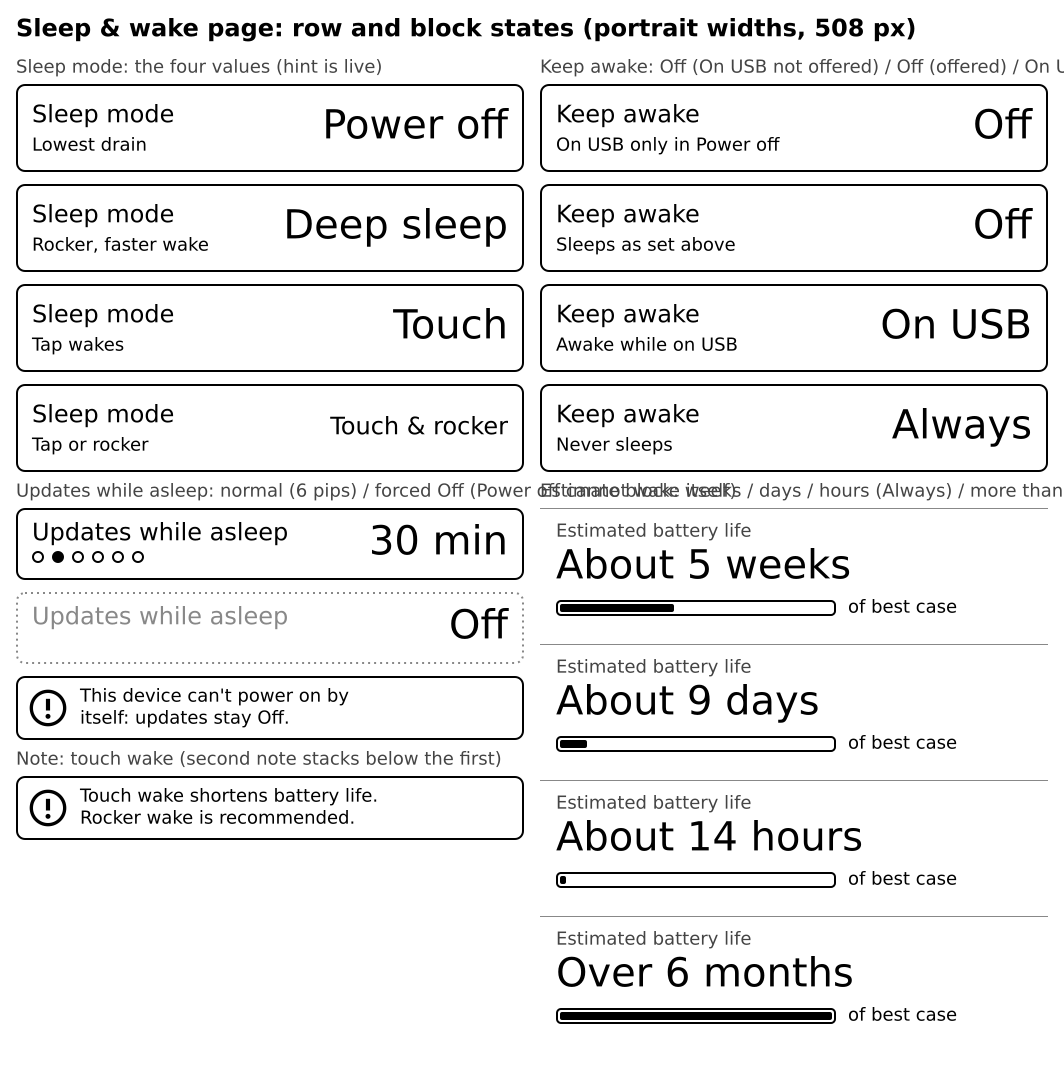
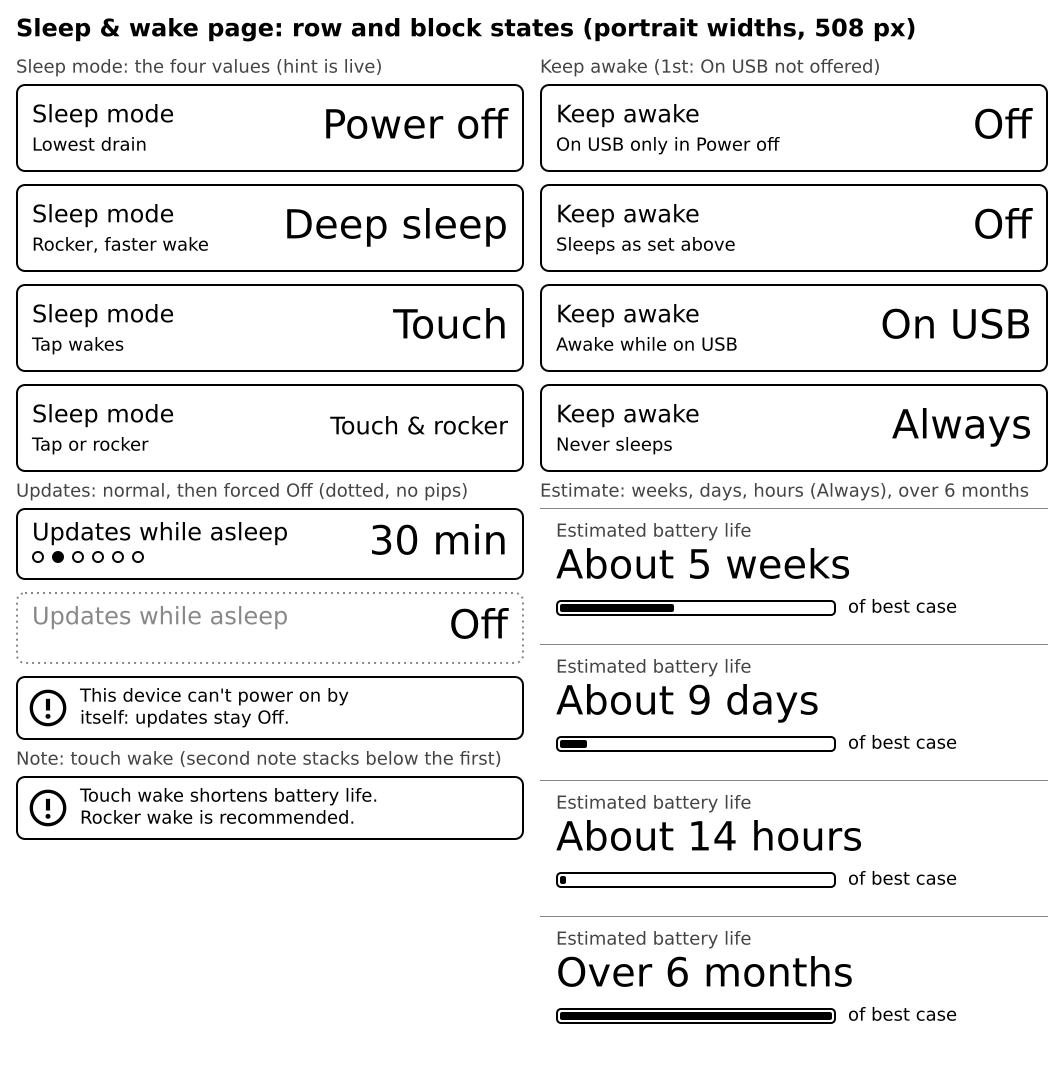
task 085: UI spec for power settings, estimate and state indicators

diff --git a/docs/ui/settings.md b/docs/ui/settings.md
@@ -41,7 +41,7 @@ No Home Assistant entity or service is used except the shared state fetch.
    - Orientation: applied on leaving: rotation is set, the layout recomputed
      (active tab kept, sub-page clamped), then **one full refresh** of the tab
      screen (STYLE.md section 10; Settings exit is always a full refresh).
-   - Wake mode, refresh interval: used the next time the device prepares to
+   - Sleep mode, updates while asleep, keep awake: used the next time the device prepares to
      sleep (power module reads the saved settings). The sleep badge (one for all wake modes)
      (STYLE.md 5.5) is the same for every wake mode.
    - Idle timeout: used from the moment Settings is left.
@@ -59,8 +59,8 @@ No Home Assistant entity or service is used except the shared state fetch.
    draws the tab screen with a full refresh) and then sleeps, so the frozen
    image is never a stale Settings page; the sleep badge is then drawn on
    the tab screen. OPEN-S1.
-6. **Touch Wake note.** While wake mode is Touch or Touch & Button (in the
-   buffer), the note slot shows an alert box `Touch wake shortens battery life. / Button wake is
+6. **Touch Wake note** (superseded by 8.2 notes, revision 10). While Sleep mode is Touch or Touch & rocker (in the
+   buffer), a note slot shows an alert box `Touch wake shortens battery life. / Button wake is
    recommended.` No numbers are quoted (power is still an estimate in
    ARCHITECTURE.md). The wake row always shows its pips (no warn icon; task 039).
    With Button the note slot is empty.
@@ -76,7 +76,7 @@ Settings is a two-level system: the **overview** (main page) lists four **catego
 | Category | Settings (edit buffer fields) |
 |----------|-------------------------------|
 | Display | Orientation |
-| Sleep & wake | Wake mode, Refresh every, Idle timeout, Stay awake on USB (9.1) |
+| Sleep & wake | Sleep mode, Updates while asleep, Keep awake, Idle timeout, Learn battery limits; battery estimate (8.2, revision 10, task 085) |
 | Network | Wi-Fi (`Auto` / profile names from secrets.yaml), HA connection (`Auto` / `Internal` / `External`) |
 | Tools | Demo mode, Debug log |
 
@@ -97,7 +97,7 @@ Shared geometry (unchanged from revision 6): margins 16, gaps 12, header 54 (por
 | Refresh now | (16, 880, 248, 64) | 912 | 3.4 |
 | Back | (276, 880, 248, 64) | 912 | 3.4 |
 
-Category row (row-relative, 508 x 96): label F24 INK left at x = 16, cy = 34; **one-line summary** F18 INK left at x = 16, cy = 66; chevron_right icon (M, 40 x 40) at (W - 52, 28), cy = 48. Summaries (from the edit buffer, so they follow unsaved changes; fit rule F18 then `...`): Display `Portrait` / `Landscape`; Sleep & wake `<wake>, <refresh>, <idle>` e.g. `Touch, 60 min, 20 s` (wake `Button` / `Touch` / `Touch & Button` shortened to `Both` only if it does not fit); Network `Wi-Fi <value>, HA <value>` e.g. `Wi-Fi Auto, HA Auto` or `Wi-Fi Hotspot, HA Internal`; Tools `Demo Off, Log Off`. Vertical sums: header 56 +12 = 68; 4 x 96 + 3 x 12 = 420 -> 488; +16 = 504; info 304 -> 808; footer 880 (72 px of free space between).
+Category row (row-relative, 508 x 96): label F24 INK left at x = 16, cy = 34; **one-line summary** F18 INK left at x = 16, cy = 66; chevron_right icon (M, 40 x 40) at (W - 52, 28), cy = 48. Summaries (from the edit buffer, so they follow unsaved changes; fit rule F18 then `...`): Display `Portrait` / `Landscape`; Sleep & wake `<Sleep mode>, updates <X>` plus `, USB awake` / `, always awake` when Keep awake is On USB / Always, e.g. `Power off, updates 3 h`, `Deep sleep, updates off`, `Touch & rocker, updates 30 min, always awake` (X = `off` / `30 min` / `1 h` / `3 h` / `6 h` / `12 h`; fit rule: drop the word `updates `, then `...`; revision 10, the idle timeout is no longer in the summary); Network `Wi-Fi <value>, HA <value>` e.g. `Wi-Fi Auto, HA Auto` or `Wi-Fi Hotspot, HA Internal`; Tools `Demo Off, Log Off`. Vertical sums: header 56 +12 = 68; 4 x 96 + 3 x 12 = 420 -> 488; +16 = 504; info 304 -> 808; footer 880 (72 px of free space between).
 
 Info rows (3.3 table) change only in wording: HA row `internal, ok 14:05` / `external, ok 14:05` (the link in use; was local / remote); Wi-Fi row shows the SSID of the connected profile.
 
@@ -198,10 +198,38 @@ All pages: header (title = category name, chip when the buffer is dirty), no tab
 ### 8.1 Display (`settings-display-*.svg`)
 Portrait: Orientation pip row (16, 68, 508, 72). Below it a static caption F18 DIM at (16, 152) cy 168: `Applied when Settings is left.` Landscape: row (16, 64, 456, 68), caption at (16, 132) cy 148. Mockup shows the changed value (unsaved), focus on the row.
 
-### 8.2 Sleep & wake (`settings-sleep-*.svg`)
-Pip rows Wake mode (68), Refresh every (152), Idle timeout (236), then the touch-wake note slot (16, 320, 508, 64) (empty with Button). Landscape: rows at y = 64, 144, 224 (h 68), note (16, 304, 456, 64). Mockups: Wake Touch (note visible), focus on Refresh every.
+### 8.2 Sleep & wake (`settings-sleep-*.svg`, revision 10, task 085)
+Replaces Wake mode, Refresh every and Stay awake on USB (old 9.1). Mockups: `settings-sleep-portrait.svg` (Power off, updates 3 h, Keep awake Off, focus on Keep awake), `settings-sleep-landscape.svg` (Touch & rocker, 30 min, On USB not offered, touch note, focus on Updates), `settings-sleep-states.svg` (every value of the mode and Keep awake rows, forced-Off row, notes, four estimate looks). Row types as 3.1; values F40 INK right edge W - 16; labels F24 INK at x = 16 (row-relative); ids w-N as listed.
 
-**Learn battery limits (task 079, revision 9).** Fifth row, hint-row type like 9.1 (88 high, `Off` / `On` F40 INK, label `Learn battery limits` F24, hint `Raise low limit after brownouts` F18 INK, label cy +32, hint cy +62, value cy +44 from row top). Portrait (16, 420, 508, 88) (12 below Stay awake, ends 508); touch-wake note moves to (16, 520, 508, 64). Landscape (488, 164, 456, 88) (right column, 12 below Stay awake); note unchanged (16, 304, 456, 64). Ids: w-5 = this row, w-6 = note, w-7 = Back. Rocker focus order: Wake mode, Refresh every, Idle timeout, Stay awake on USB, Learn battery limits, Back. PUSH or tap toggles in the shared buffer (partial of the row, `unsaved` chip if dirty flipped). Mockups show it On.
+| # | Row (id) | Type | Portrait rect | Landscape rect |
+|---|----------|------|---------------|----------------|
+| 1 | Sleep mode (w-1) | hint, 88 | (16, 68, 508, 88) | (16, 64, 456, 88) |
+| 2 | Updates while asleep (w-2) | pip, 72 / 68 | (16, 168, 508, 72) | (16, 164, 456, 68) |
+| 3 | Keep awake (w-3) | hint, 88 | (16, 252, 508, 88) | (16, 244, 456, 88) |
+| 4 | Idle timeout (w-4) | pip, 72 / 68 | (16, 352, 508, 72) | (16, 344, 456, 68) |
+| 5 | Learn battery limits (w-5) | hint, 88 (as before: hint `Raise low limit after brownouts`, `Off` / `On`) | (16, 436, 508, 88) | (488, 64, 456, 88) |
+| - | Note area (w-6, w-7 when shown) | notes 64 high, stacked, pitch 76, in this order | from (16, 536, 508, 64) | from (488, 164, 456, 64) |
+| - | Estimate block (next w id) | 124 high, not interactive | (16, 744, 508, 124) | (488, 328, 456, 124) |
+| - | Back (last w id) | 3.4 | (276, 880, 248, 64) | (722, 464, 222, 64) |
+
+Vertical check (portrait): 68 + 88 + 12 + 72 + 12 + 88 + 12 + 72 + 12 + 88 = 524; notes 536..676 (two at most); estimate 744..868; Back 880 (12 px gap). Landscape: left column ends 412; right column notes end 304 at most; estimate 328..452; Back 464.
+
+**Row 1, Sleep mode** (hint row; value F40, `Touch & rocker` F24 because F40 does not fit; hint F18 INK, live, label cy +32, hint cy +62, value cy +44). Cycle order = cost order, wraps: `Power off` (hint `Lowest drain`) -> `Deep sleep` (`Rocker, faster wake`) -> `Touch` (`Tap wakes`) -> `Touch & rocker` (`Tap or rocker`). Default `Power off` once task 084 works. Rocker always wakes in the first two and in `Touch & rocker`; `Touch` wakes by tap only. Migration of the old wake mode is firmware (Button -> Deep sleep unless 084 is usable, Touch, Touch & Button).
+
+**Row 2, Updates while asleep** (pip row, 6 pips): `Off` / `30 min` / `1 h` / `3 h` / `6 h` / `12 h` (cycle, wraps; 0 = Off). **Forced Off**: when Sleep mode is `Power off` and 084 cannot make the RTC power-on work, the row takes the unavailable look (STYLE.md section 8: 2 px dotted OFF border, label in OFF grey, no pips, value `Off` INK), ignores tap and PUSH, is skipped by the rocker focus, and the note `This device can't power on by` / `itself: updates stay Off.` shows (first slot). The stored value is kept and returns when the mode changes.
+
+**Row 3, Keep awake** (hint row, value F40): `Off` / `On USB` / `Always`. Live hint: Off `Sleeps as set above`; On USB `Awake while on USB`; Always `Never sleeps`. **On USB not offered** (Deep sleep, Touch, Touch & rocker unless the CH9102 RX probe of task 081 proves reliable; always offered in Power off via the power-off fallback): the cycle is `Off` -> `Always` -> `Off`, and while the value is Off the hint reads `On USB only in Power off` (no extra row, no note). If the user changes Sleep mode to one that does not offer it while the value is `On USB`, the buffer value becomes `Off` (the chip shows if that makes the buffer differ). Takes effect when Settings is left.
+
+**Row 4, Idle timeout**: unchanged (4 pips, `10 s` / `20 s` / `30 s` / `60 s`). Unused while Keep awake is Always (the row stays editable, no special look).
+
+**Note area.** Alert-icon notes as 3.2 (icon M at (12, 12), lines F18 cy 21 / 43, text x = 64), stacked from the top of the area, at most two, in priority order: (1) forced Off (text above); (2) Sleep mode is `Touch` or `Touch & rocker`: `Touch wake shortens battery life.` / `Rocker wake is recommended.` (replaces the old rule 6 text; no numbers). A note appearing or clearing redraws the whole note area.
+
+**Estimate block** (not a button; no focus stop). Top hairline (0, 0, 456 or 508, 1) OFF; caption `Estimated battery life` F18 DIM at x = 16, cy = 24; value line F40 INK at x = 16, cy = 60; gauge outline (17, 93, 278, 14) radius 4, 2 px INK, fill bar (20, 96, w, 8) INK with w = max(6, round(272 x f)); text `of best case` F18 INK at x = 308, cy = 100. Offsets are block-relative. Value text (INK, rounded, `About` always): under 48 h `About N hours`; under 21 days `About N days` (N >= 10 rounded to 5); then `About N weeks` up to 26 weeks; above that `Over 6 months`. f = estimate / best case, where best case = the model's value for Power off, updates Off, Keep awake Off with the same assumed use (so f = 1 only at that setting); estimate is from lib/power, labelled `Estimated` until measured. Keep awake Always = hours.
+Redraw: the caption and hairline are static (drawn when the page opens); the live part is the value line and gauge, region (0, 36, W, 88) block-relative, INK/PAPER only (`epd_fastest`); text stays INK so it is a fast partial. A tap changes the row (one partial) and the estimate region together as one update; the estimate is recomputed from the shared edit buffer on every change.
+
+**Interactions.** Row tap or PUSH cycles the value in the buffer (rows 1..3, 4, 5); redraw = the row, the estimate region, the note area if its condition flipped, the `unsaved` chip if the dirty flag flipped (partial; INK-only regions `epd_fastest`; the forced-row dotted OFF border makes its redraw `epd_quality`). Rocker focus order: Sleep mode, Updates while asleep (skipped when forced), Keep awake, Idle timeout, Learn battery limits, Back. LONG_PUSH = back to the overview. Focus ring as section 5. Settings are saved on leaving (rule 2) and used the next time the device sleeps; the status-bar indicator (STYLE.md 5.6) shows the result.
+
+**States.** Loading: none. HA offline / entity unavailable: not relevant (device-local settings). Estimate unavailable (model has no constants yet): value line `Estimate n/a`, gauge empty. Demo mode: unchanged.
 
 ### 8.3 Network (`settings-network-*.svg`)
 Hint rows, 88 high. Portrait: Wi-Fi (16, 68, 508, 88), HA connection (16, 168, 508, 88), note slot (16, 268, 508, 64). Landscape: Wi-Fi (16, 64, 456, 88), HA connection (488, 64, 456, 88), note (16, 164, 456, 64) (under Wi-Fi). Hints are live, read from the network state, never edited:
@@ -230,17 +258,8 @@ Refresh: entering and leaving a page = GC16 full; row toggles = one partial of t
 
 Mockups: `settings-portrait.svg` / `settings-landscape.svg` (overview, Sleep now row), `settings-sleep-portrait.svg` / `settings-sleep-landscape.svg` (toggle row, shown On, unsaved). Placement decision: the toggle is a sleep setting, so it lives on the **Sleep & wake** page (not the overview, which has no room for two more rows); only the action **Sleep now** is on the overview.
 
-### 9.1 Stay awake on USB (Sleep & wake page)
-Data: `settings::Settings.stay_awake_usb` (bool, default Off, saved on leaving like all settings; task 081 persists it in NVS). Hint row type (3.1), 88 high, `Off` / `On` cycle, value F40 INK.
-
-| Element | Portrait | Landscape | Font |
-|---------|----------|-----------|------|
-| Row | (16, 320, 508, 88), border 2 INK, radius 8, PAPER | (488, 64, 456, 88) (right column, top) | |
-| Label `Stay awake on USB` | x 32, cy 352 | x 504, cy 96 | F24 INK |
-| Hint `Never sleeps while on USB power` (static) | x 32, cy 382 | x 504, cy 126 | F18 INK |
-| Value `Off` / `On` | right edge x 508, cy 364 | right edge x 928, cy 108 | F40 INK |
-
-Touch-wake note slot moves below it in portrait: (16, 420, 508, 64) (landscape unchanged, (16, 304, 456, 64)). Ids: w-4 = this row, w-5 = note, w-6 = Back. Rocker focus order: Wake mode, Refresh every, Idle timeout, Stay awake on USB, Back. PUSH or tap toggles in the shared buffer; redraw = the row only (one partial, `epd_fastest`), plus the `unsaved` chip if the dirty flag flipped. Takes effect when Settings is left (the idle decision reads the saved value). Off = idle sleep exactly as today. On with no USB power: nothing changes visibly; battery sleep is unchanged. No separate "USB detected" indicator (OPEN-S7).
+### 9.1 Stay awake on USB (superseded)
+Replaced by Keep awake (`Off` / `On USB` / `Always`) in 8.2 (revision 10, task 085). The row layout, the `Never sleeps while on USB power` hint and the old focus order no longer apply. The OPEN-S7 hint question is answered by the status-bar indicator (STYLE.md 5.6).
 
 ### 9.2 Sleep now (overview)
 | Element | Portrait | Landscape | Font / grey |
@@ -260,3 +279,8 @@ No on-screen countdown (partial refresh while holding would ghost and cost batte
 ### 9.4 OPEN
 - OPEN-S7: no USB-power indicator on the toggle row; Battery info row already shows the bolt icon when charging. Add a hint `USB power detected` only if task 081 finds a reliable signal (architect).
 - OPEN-S8: toggle placed on the Sleep & wake page, not on the overview (coordinator's wording suggested the overview).
+
+### 10. OPEN (revision 10, task 085)
+- OPEN-S9: the estimate wording, rounding and `of best case` gauge are proposals (best case = Power off, updates Off); architect to confirm the model can give a best case.
+- OPEN-S10: On USB falling back to Off when the mode no longer offers it (8.2 row 3) is a proposal; alternative is to keep the stored value and treat it as Off.
+- OPEN-S11: forced-Off Updates (Power off without a working RTC power-on) shows as a dotted row plus note; confirm 084 can report "RTC power-on unsupported" at settings time.

diff --git a/docs/ui/STYLE.md b/docs/ui/STYLE.md
@@ -155,7 +155,7 @@ Cell pitch = cell size + 12.
 | Status bar / top bar | status bar (0, 0, 540, 56) | top bar (0, 0, 960, 64), holds status AND tabs |
 | Refresh hit area | (0, 0, 288, 56) | (16, 4, 144, 56) |
 | Settings hit area (battery cluster) | (412, 0, 112, 56) | (832, 4, 112, 56) |
-| Sleep badge region | (298, 3, 100, 48) | (710, 8, 100, 48) |
+| Sleep indicator region (5.6) | (298, 3, 108, 48) | (706, 8, 108, 48) |
 | Tab bar (redraw region) | bottom: (0, 880, 540, 80) | strip inside the top bar: (172, 0, 648, 64) |
 | Content area | (16, 68, 508, 800) | (16, 72, 928, 452) |
 | Columns x rows | 2 x 7 | 5 x 4 |
@@ -262,7 +262,7 @@ every element: **cy = 27** (the 54 px above the rule).
 | Connection icon (S, 24x24) | (16, 15, 24, 24) | see 5.3 |
 | Refresh label text | x = 48, cy = 27, left, one line, max width 236 (to x = 284) | `updated 14:05` |
 | Refresh hit area | (0, 0, 288, 56) | invisible; 10 px from the sleep badge region |
-| Sleep badge region | (298, 3, 100, 48) | see 5.5 |
+| Sleep indicator region | (298, 3, 108, 48) | see 5.6 (replaces the 5.5 badge) |
 | Battery icon | origin (428, 17), 40 x 20 | see 5.4; cy = 27 |
 | Battery percent | right edge x = 524, cy = 27, rect (472, 0, 52, 54) | `78%` |
 | Settings hit area | (412, 0, 112, 56) | invisible; battery icon + percent |
@@ -343,7 +343,7 @@ screen, not specified here.)
 section 6). This is the touch path to Settings; the rocker path is a long push.
 No feedback on the cluster itself (the screen changes with a full refresh).
 
-### 5.5 Sleep badge
+### 5.5 Sleep badge (superseded by 5.6, task 085: the `Zz` badge is replaced by the state indicators; the rules below on timing, clearing and hit areas still apply with the new region)
 
 Purpose: the e-ink image is frozen while the device sleeps and looks awake. Right before every
 power-off or deep sleep the firmware draws **only the badge region** (partial refresh) so the user
@@ -383,6 +383,35 @@ Rules:
 - Not shown while the Settings screen is open; Settings auto-leaves to the tab screen before
   sleeping (settings.md rule 5), then the badge is drawn.
 - The sleep plan no longer selects a variant; the `touch_wake` flag does not affect the badge.
+
+### 5.6 Power state indicators (task 085)
+
+Sheet: `docs/ui/status-power-states.svg` (portrait strips, landscape strips, 2x enlargement); in context `tab-portrait-asleep.svg`, `tab-landscape-asleep.svg`. One **pill** of 104 x 44 (radius 12) in the same place as the old badge, drawn with the same primitives in both orientations; greys: INK / PAPER only. F18 only (the status bar size); no text below F18.
+
+| | Portrait | Landscape |
+|---|---|---|
+| Pill rect | (300, 5, 104, 44) | (708, 10, 104, 44), centred in the last tab slot (700, 4, 120, 56) |
+| Redraw region (pill + 2 px) | (298, 3, 108, 48) | (706, 8, 108, 48) |
+| Line 1 centre line | pill y + 14 | pill y + 14 |
+| Line 2 centre line | pill y + 32 | pill y + 32 |
+
+Clearances: portrait refresh hit area ends x = 288, pill 300..404, settings hit area starts 412; landscape slot 5 is hidden while asleep (as 5.5), pill 708..812, settings hit starts 832. The pill is never a hit target.
+
+**Asleep indicators: filled pill (INK, content PAPER).** Line 1: icon (20 x 20 at pill-relative (10, 4)) + the mode word in DejaVu Sans Bold 18 caps at x = 36. Line 2: `refresh` icon (18 x 18 at (11, 23)) + F18 regular text at x = 36: the next scheduled update `15:30` (24 h clock, the next RTC wake; at most 12 h ahead so no date) or `off` when Updates while asleep is Off (including forced Off).
+
+| State | Icon | Word | When |
+|-------|------|------|------|
+| Power off | `power` (circle open at the top, bar) | `OFF` | Sleep mode Power off. Replaces the `Zz` badge: the device is switched off, only the rocker (or the RTC alarm) starts it |
+| Deep sleep | `moon` | `DEEP` | Sleep mode Deep sleep (rocker wakes) |
+| Touch wake | `finger` (dot with two rings) | `TAP` | Sleep mode Touch or Touch & rocker (a tap wakes; the rocker may too, not shown) |
+
+The same indicator is used for low-battery sleep (mode as set). Line 2 is drawn from the saved settings at the moment of sleeping.
+
+**Keep-awake indicators (device is awake and will not idle-sleep): outline pill** (2 px INK border, PAPER fill, INK content; filled = asleep, outline = awake). Line 1 `AWAKE` Bold 18 centred; line 2 F18 regular centred: `on USB` (Keep awake On USB and USB power detected) or `always` (Keep awake Always). Shown on the tab screens only; drawn when the state starts, cleared (region PAPER / slot 5 redrawn) when it ends or the device sleeps (then the asleep pill replaces it). Landscape cannot hide tab slot 5 while the device is usable, so the awake state is a **caption under the battery cluster** instead: F18 INK, right edge x = 944, cy = 53, text `USB awake` / `always on`, region (832, 44, 112, 18); it is part of the Settings hit area (tapping it opens Settings, where Keep awake is changed).
+
+**Redraw.** Draw and clear each touch only their region, partial refresh `epd_fastest` (INK/PAPER only), after any ghost-clearing full refresh (section 10) and last before the EPD is powered off. A scheduled RTC wake that changes nothing redraws only when line 2 changed (the next update time moved): then the region alone. Cleared on wake as in 5.5. Never overlaps the refresh label, the outdated `clock` icon (ends x = 284) or the battery cluster.
+
+**Legibility.** At F18 bold the three words are 40 to 56 px wide; the 2x sheet shows all icons are distinguishable by silhouette, not only by word. Open: confirm on the device that the 18 px `refresh` icon and the `moon` stay readable (OPEN-5.6).
 
 ## 6. Tab bar
 
